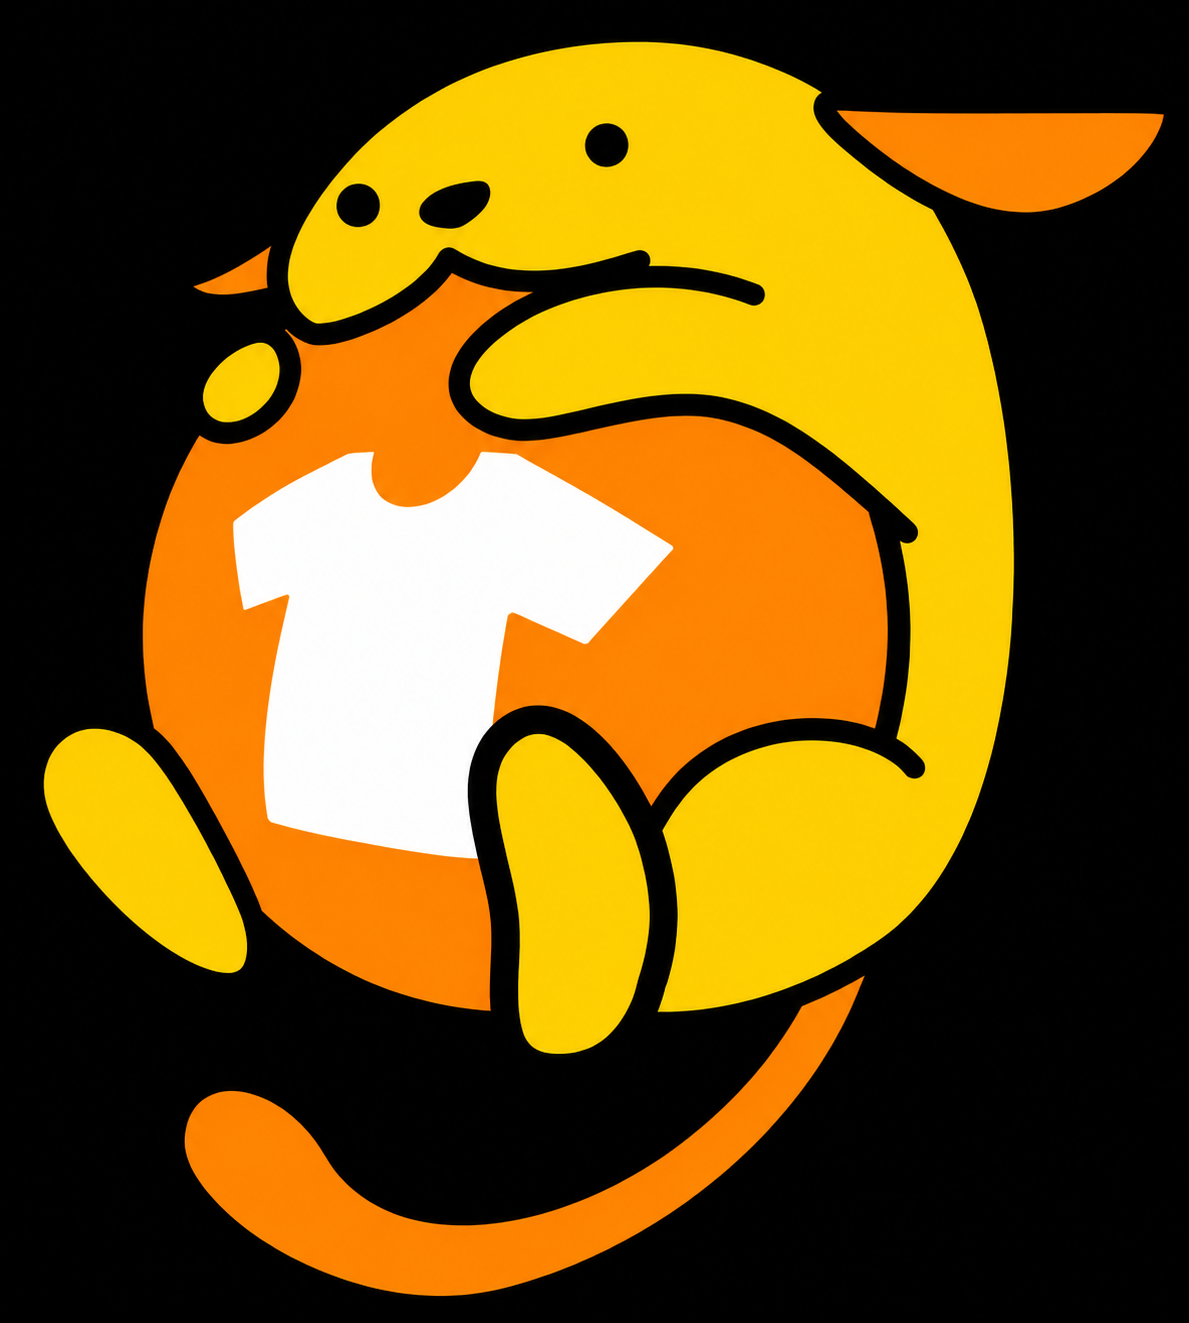
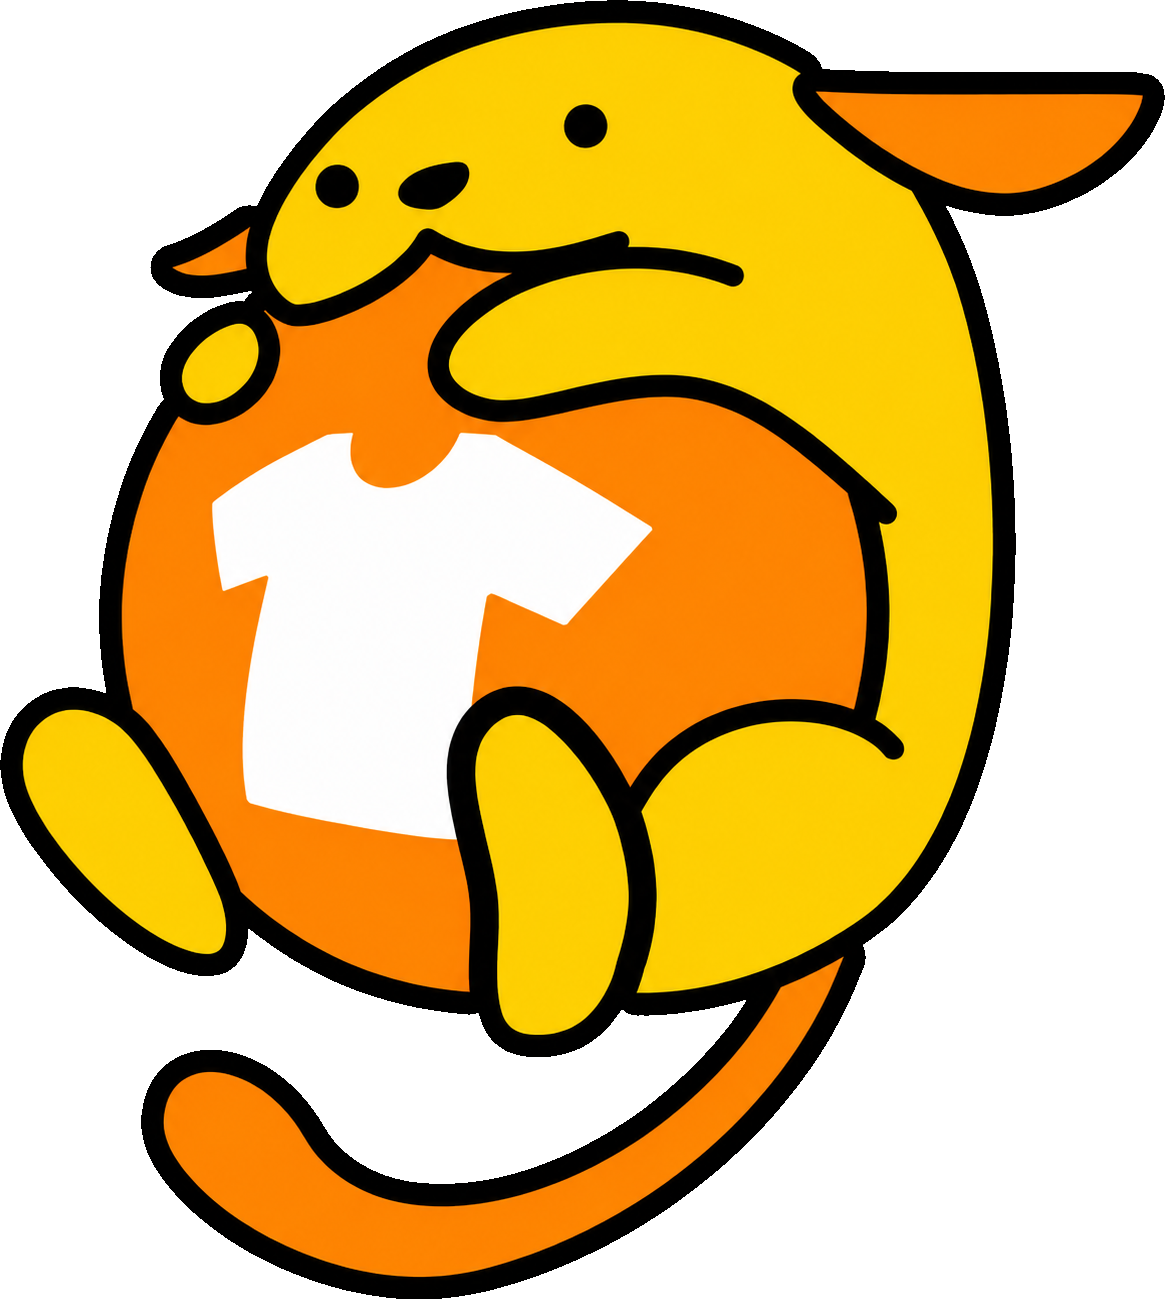
Add Wapuu mascot to README header
Key out the black background to alpha, trim the margin, and add a
320px variant floated top-right of the README.

diff --git a/README.md b/README.md
@@ -1,3 +1,5 @@
+<img src="assets/toptex-wapuu-320.png" alt="TopTex Wapuu" align="right" width="160">
+
 # TopTex for WooCommerce
 
 Import the TopTex wholesale garment catalog into WooCommerce as variable
